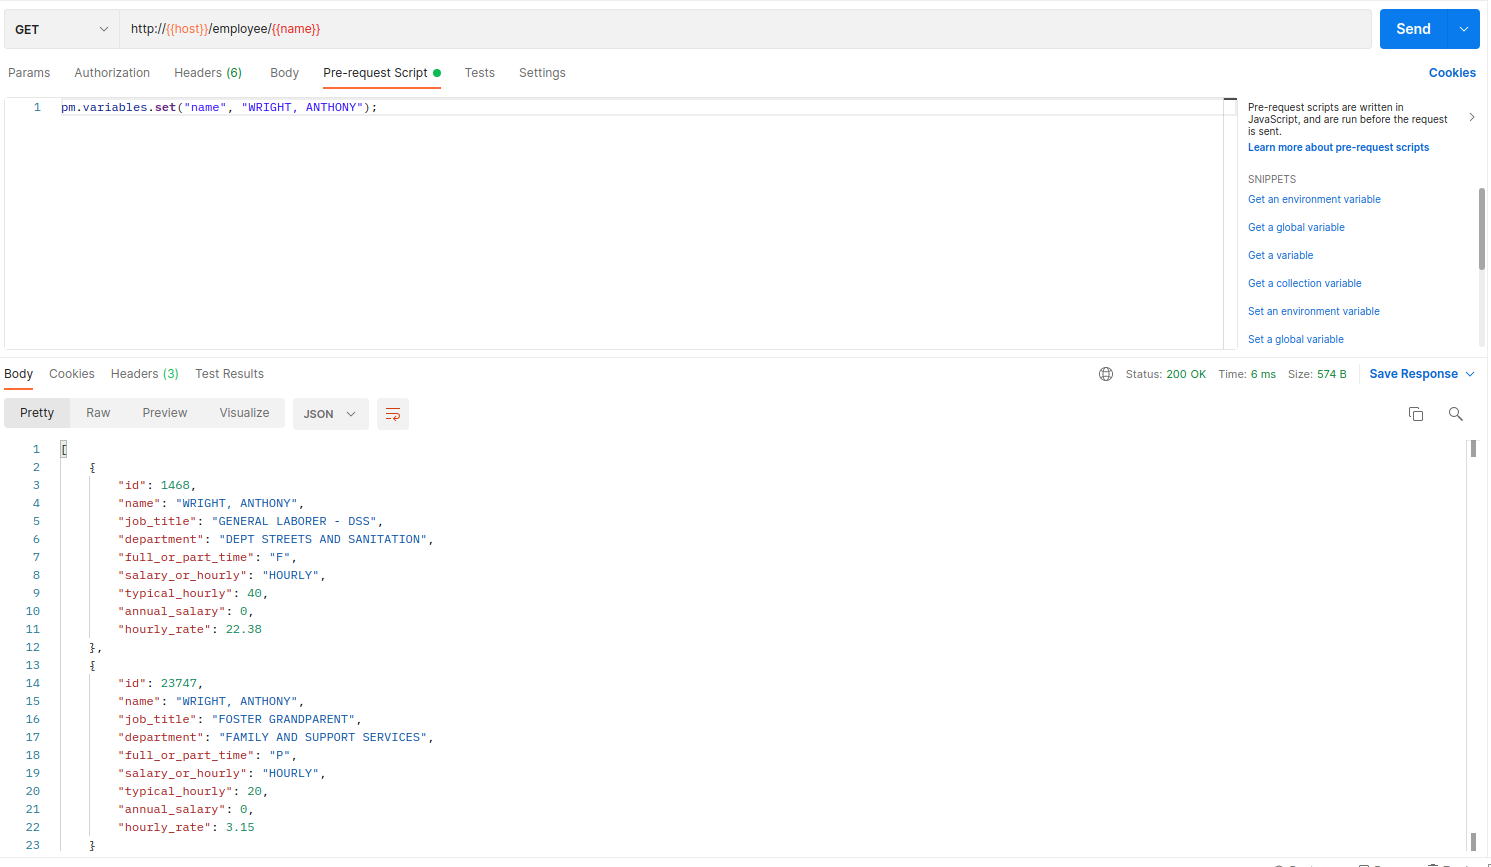
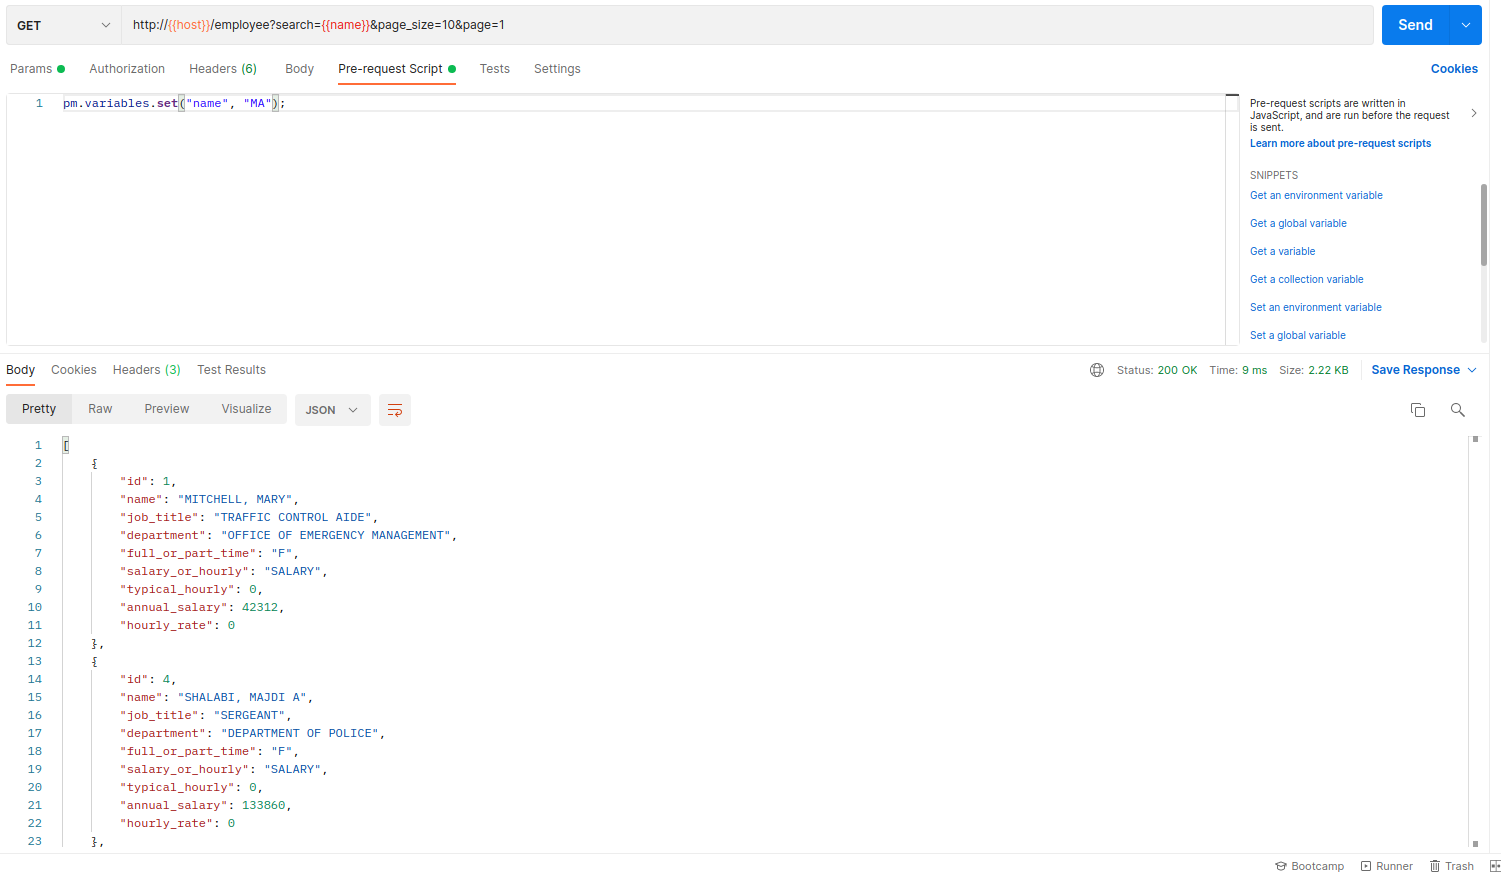
Updated readme file & screenshoots

diff --git a/Readme.md b/Readme.md
@@ -4,23 +4,31 @@
 ## API
 API для поиска сотрудников по имени.
 Метод возвращает полную информацию о сотрудниках с указанным именем.  
-**Формат запроса:** `GET http://{{host}}/employee/{{name}}`  
-**Результат:** список сотрудников с именем *{{name}}*
+**Формат запроса:** `GET http://{{host}}/employee?search={{search}}&page_size={{page_size}}&page={{page_number}}`  
+**Результат:** список сотрудников, у которых в именем есть совпадения с *{{search}}*
 
 ![Пример запроса 1](./screenshoots/postman_example_1.png  "Пример 1")
 
 ![Пример запроса 2](./screenshoots/postman_example_2.png  "Пример 2")
 
 ## Import command
-Также реализована команда для импорта сотрудников из csv файла  
-**Формат команды:** `go run main.go loadcsv {{путь к файлу}}`
-**Результат:** имортирует всех сотрудников из файла и в случае успеха
-выводит `Data loaded successfully!`
+Также реализованы команды для импорта сотрудников:
 
-**Примечание:** В данной реализации система допускает сотрудников с одинаковым ФИО и не учитывает возможное дублирование сотрудников.
-В виду того, что во входных данных есть сотрудники с одинаковыми ФИО,
-но разными отделами, должностями и т.д. и в теории у сотрудника эти данные могут изменяться,
-так что проблематично без дополнительной информации однозначно идентифицировать сотрудника по имени
+#### Проверка незавершённых импортов сотрудников
+**Формат команды:** `./cli check`
+**Результат:** выводит список всех незавершённых импортов с информацией по прогрессу каждого импорта
+
+#### Возобновление импорта сотрудников
+**Формат команды:** `./cli recover {{import_id}}`
+**Результат:** возобновляет импорт сотрудников из файла с того места, где импорт был прерван и в случае успеха
+выводит `Successfully imported CSV data`
+
+#### Импорт сотрудников из csv файла
+**Формат команды:** `./cli create-all {{csv_file_path}}`
+**Результат:** имортирует всех сотрудников из файла и в случае успеха
+выводит `Successfully imported CSV data`
+
+**Примечание:** Команда используется только для создания новых сотрудников.
 
 ![Таблица employees](./screenshoots/import_result.png  "Таблица employees")
 ![Таблица departments](./screenshoots/import_result_2.png  "Таблица departments")
